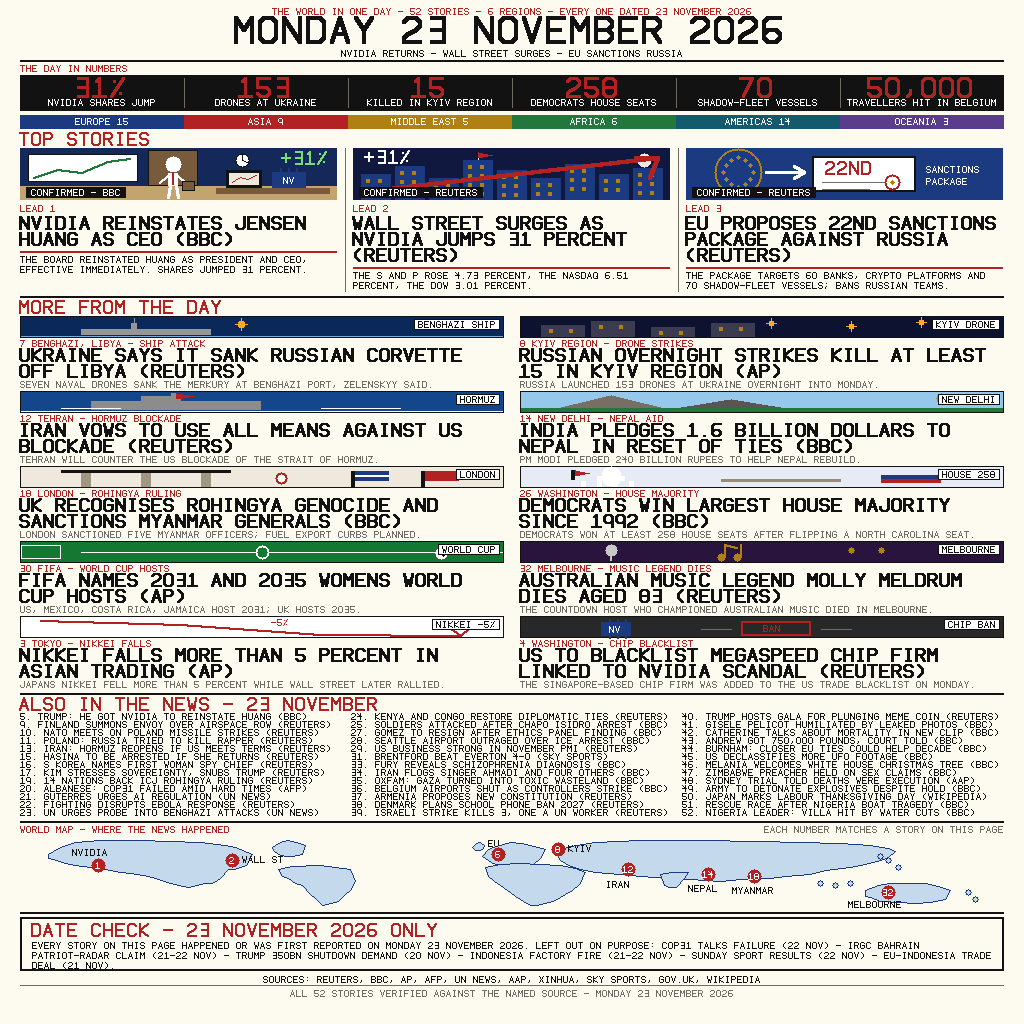
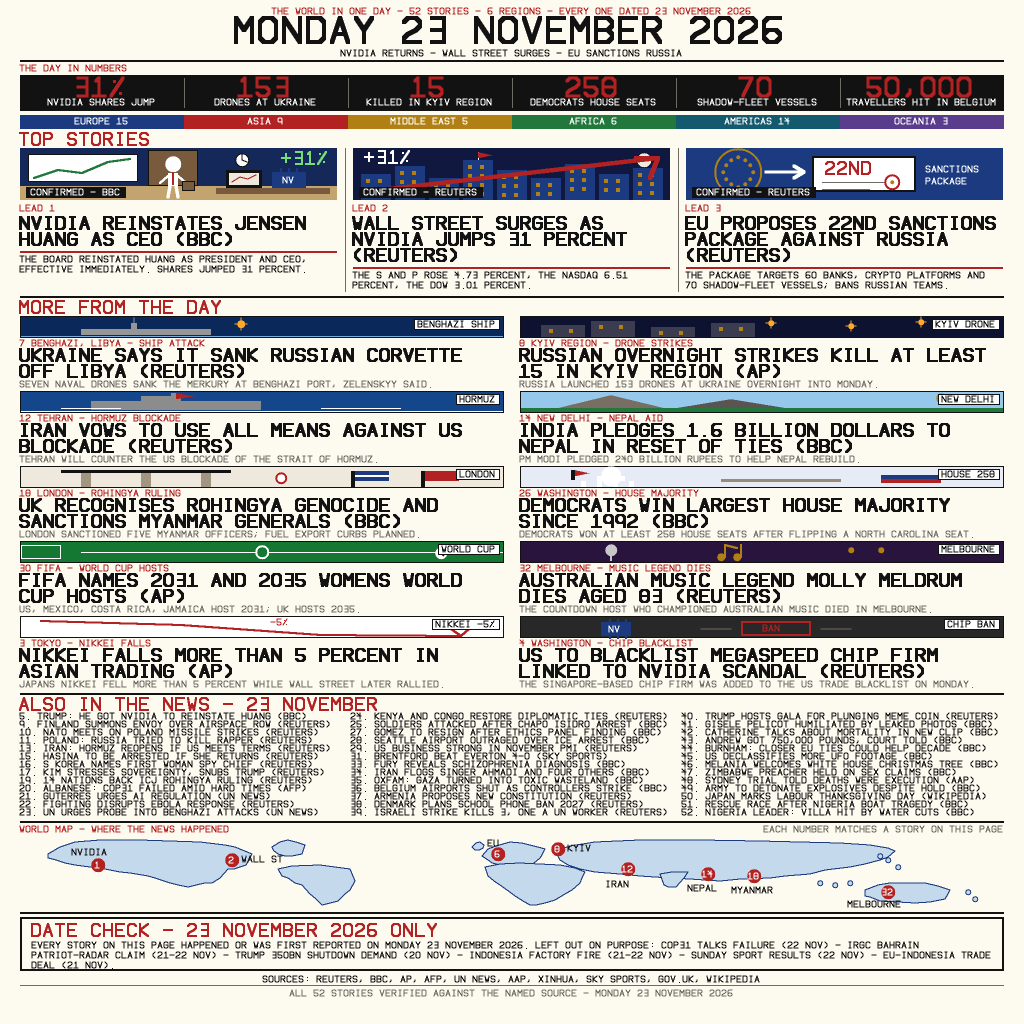
news23 v6: 2x supersampling anti-aliasing, smoother text (same 52 stories, same layout)

diff --git a/main.py b/main.py
@@ -4,16 +4,16 @@
 A program that draws one front-page image summing up 23 November 2026
 world news: 52 verified stories, every one carrying its source.
 
-v5 revision of the v4 front page (same 52 verified stories, no story
-added or changed): the lead-1 Nvidia scene is rebuilt - the returning
-CEO is now a big figure (white shirt, red tie, briefcase) in a wide
-door, the wall chart is wider, a wall clock fills the empty dark
-space, and the desk monitor and NV chip are bigger, with +31% moved
-to the top right. Everything else is the v4 layout unchanged: a huge
-date, a THE DAY IN NUMBERS strip, a region bar, three leads with tall
-coloured scene panels and caption chips, ten featured stories each with
-its own small coloured scene strip, bold headlines, a three-column ALSO
-list, and a big world map with numbered pins.
+v6 revision of the v5 front page (same 52 verified stories, same
+layout, no story added or changed): the whole page is now rendered
+with 2x supersampling anti-aliasing - drawn at 2048x2048 and
+box-downsampled to 1024x1024 - so the hand-drawn stroke text renders
+visibly smoother instead of jagged and stair-stepped. Everything else
+is the v5 layout unchanged: a huge date, a THE DAY IN NUMBERS strip,
+a region bar, three leads with tall coloured scene panels and caption
+chips, ten featured stories each with its own small coloured scene
+strip, bold headlines, a three-column ALSO list, and a big world map
+with numbered pins.
 
 Pure Python standard library only. Stroke-based vector font (sfont.py),
 hand-rolled PNG encoder, no network, no randomness, deterministic output.
@@ -36,6 +36,7 @@ sys.path.insert(0, os.path.dirname(os.path.abspath(__file__)))
 import sfont
 
 W, H = 1024, 1024
+SS = 2  # supersampling factor: draw at 2048x2048, downsample to 1024
 
 PAPER = (253, 250, 240)
 INK = (18, 18, 18)
@@ -93,29 +94,50 @@ def wrap(text, max_width, scale):
 
 
 # ---------------------------------------------------------------- canvas
+# Supersampling anti-aliasing (v6): the page is drawn at SSx resolution
+# into a 2048x2048 buffer and box-downsampled to 1024x1024. Every
+# public primitive takes LOGICAL (1024) coordinates and scales them by
+# SS once, so all layout code is unchanged; only the rasterization is
+# finer, which turns jagged stair-step text edges into smooth grey
+# transitions. Buffer-level helpers (_set, _rect, _hline) work in
+# buffer coordinates and never scale again.
 class Canvas:
-    def __init__(self, w, h, bg):
+    def __init__(self, w, h, bg, ss=1):
         self.w = w
         self.h = h
-        self.px = bytearray(w * h * 3)
+        self.ss = ss
+        self.bw = w * ss
+        self.bh = h * ss
+        self.px = bytearray(self.bw * self.bh * 3)
         self.rect(0, 0, w, h, bg)
 
-    def set(self, x, y, color):
-        if 0 <= x < self.w and 0 <= y < self.h:
-            i = (y * self.w + x) * 3
+    def _set(self, bx, by, color):
+        if 0 <= bx < self.bw and 0 <= by < self.bh:
+            i = (by * self.bw + bx) * 3
             self.px[i], self.px[i + 1], self.px[i + 2] = color
 
-    def rect(self, x, y, w, h, color):
-        x0 = max(0, x)
-        y0 = max(0, y)
-        x1 = min(self.w, x + w)
-        y1 = min(self.h, y + h)
-        r, g, b = color
+    def set(self, x, y, color):
+        self._set(x * self.ss, y * self.ss, color)
+
+    def _rect(self, bx, by, bw, bh, color):
+        x0 = max(0, bx)
+        y0 = max(0, by)
+        x1 = min(self.bw, bx + bw)
+        y1 = min(self.bh, by + bh)
+        if x1 <= x0 or y1 <= y0:
+            return
+        row = bytes(color) * (x1 - x0)
+        stride = self.bw * 3
         for yy in range(y0, y1):
-            base = (yy * self.w + x0) * 3
-            for xx in range(x0, x1):
-                i = base + (xx - x0) * 3
-                self.px[i], self.px[i + 1], self.px[i + 2] = r, g, b
+            base = yy * stride + x0 * 3
+            self.px[base:base + len(row)] = row
+
+    def rect(self, x, y, w, h, color):
+        ss = self.ss
+        self._rect(x * ss, y * ss, w * ss, h * ss, color)
+
+    def _hline(self, bx, by, bw, color):
+        self._rect(bx, by, bw, 1, color)
 
     def hline(self, x, y, w, color, thick=1):
         self.rect(x, y, w, thick, color)
@@ -130,18 +152,24 @@ class Canvas:
         self.vline(x + w - thick, y, h, color, thick)
 
     def line(self, x0, y0, x1, y1, color, thick=1):
-        """Bresenham line."""
+        """Bresenham line, rasterized in buffer coordinates."""
+        ss = self.ss
+        x0 *= ss
+        y0 *= ss
+        x1 *= ss
+        y1 *= ss
+        thick *= ss
         dx = abs(x1 - x0)
         dy = -abs(y1 - y0)
         sx = 1 if x0 < x1 else -1
         sy = 1 if y0 < y1 else -1
         err = dx + dy
+        half = thick // 2
         while True:
             if thick == 1:
-                self.set(x0, y0, color)
+                self._set(x0, y0, color)
             else:
-                self.rect(x0 - thick // 2, y0 - thick // 2,
-                          thick, thick, color)
+                self._rect(x0 - half, y0 - half, thick, thick, color)
             if x0 == x1 and y0 == y1:
                 break
             e2 = 2 * err
@@ -154,6 +182,8 @@ class Canvas:
 
     def poly(self, pts, color):
         """Scanline fill of a polygon (even-odd rule)."""
+        ss = self.ss
+        pts = [(x * ss, y * ss) for x, y in pts]
         if len(pts) < 3:
             return
         ys = [p[1] for p in pts]
@@ -169,8 +199,8 @@ class Canvas:
                     xs.append(x0 + (y - y0) * (x1 - x0) / (y1 - y0))
             xs.sort()
             for i in range(0, len(xs) - 1, 2):
-                self.hline(int(xs[i]), y,
-                           int(xs[i + 1]) - int(xs[i]) + 1, color)
+                self._hline(int(xs[i]), y,
+                            int(xs[i + 1]) - int(xs[i]) + 1, color)
 
     def polyline(self, pts, color, thick=1):
         """Closed polygon outline."""
@@ -182,14 +212,53 @@ class Canvas:
 
     def circle(self, cx, cy, r, color):
         """Filled circle."""
+        ss = self.ss
+        cx *= ss
+        cy *= ss
+        r *= ss
         for y in range(cy - r, cy + r + 1):
             dx = int((r * r - (y - cy) ** 2) ** 0.5)
-            self.hline(cx - dx, y, 2 * dx + 1, color)
+            self._hline(cx - dx, y, 2 * dx + 1, color)
 
     def ring(self, cx, cy, r, color, thick=1, inner=WHITE):
         """Circle outline: filled disc, then a smaller disc of `inner`."""
         self.circle(cx, cy, r, color)
         self.circle(cx, cy, r - thick, inner)
+
+    def downsample(self):
+        """Box-downsample the SSx buffer back to logical size.
+
+        Each output pixel is the rounded mean of its SSxSS source
+        block, so a flat area comes back byte-identical to a 1x render
+        and only edges gain smooth grey transitions. Integer math
+        only, so the result is deterministic across runs.
+        """
+        ss = self.ss
+        out = Canvas(self.w, self.h, PAPER, ss=1)
+        if ss == 1:
+            out.px[:] = self.px
+            return out
+        src = self.px
+        dst = out.px
+        sw = self.bw
+        n = ss * ss
+        for oy in range(self.h):
+            y0 = oy * ss
+            for ox in range(self.w):
+                x0 = ox * ss
+                r = g = b = 0
+                for dy in range(ss):
+                    base = ((y0 + dy) * sw + x0) * 3
+                    for dx in range(ss):
+                        i = base + dx * 3
+                        r += src[i]
+                        g += src[i + 1]
+                        b += src[i + 2]
+                o = (oy * self.w + ox) * 3
+                dst[o] = (r + n // 2) // n
+                dst[o + 1] = (g + n // 2) // n
+                dst[o + 2] = (b + n // 2) // n
+        return out
 
     def text(self, s, x, y, scale, color):
         return sfont.draw_text(self, s, x, y, scale, color)
@@ -817,8 +886,9 @@ def draw(c):
 
 
 def main():
-    c = Canvas(W, H, PAPER)
+    c = Canvas(W, H, PAPER, SS)
     draw(c)
+    c = c.downsample()
     out_dir = os.environ.get("MAKEFUN_OUTPUT_DIR", ".")
     path = os.path.join(out_dir, "entry.png")
     with open(path, "wb") as f:
